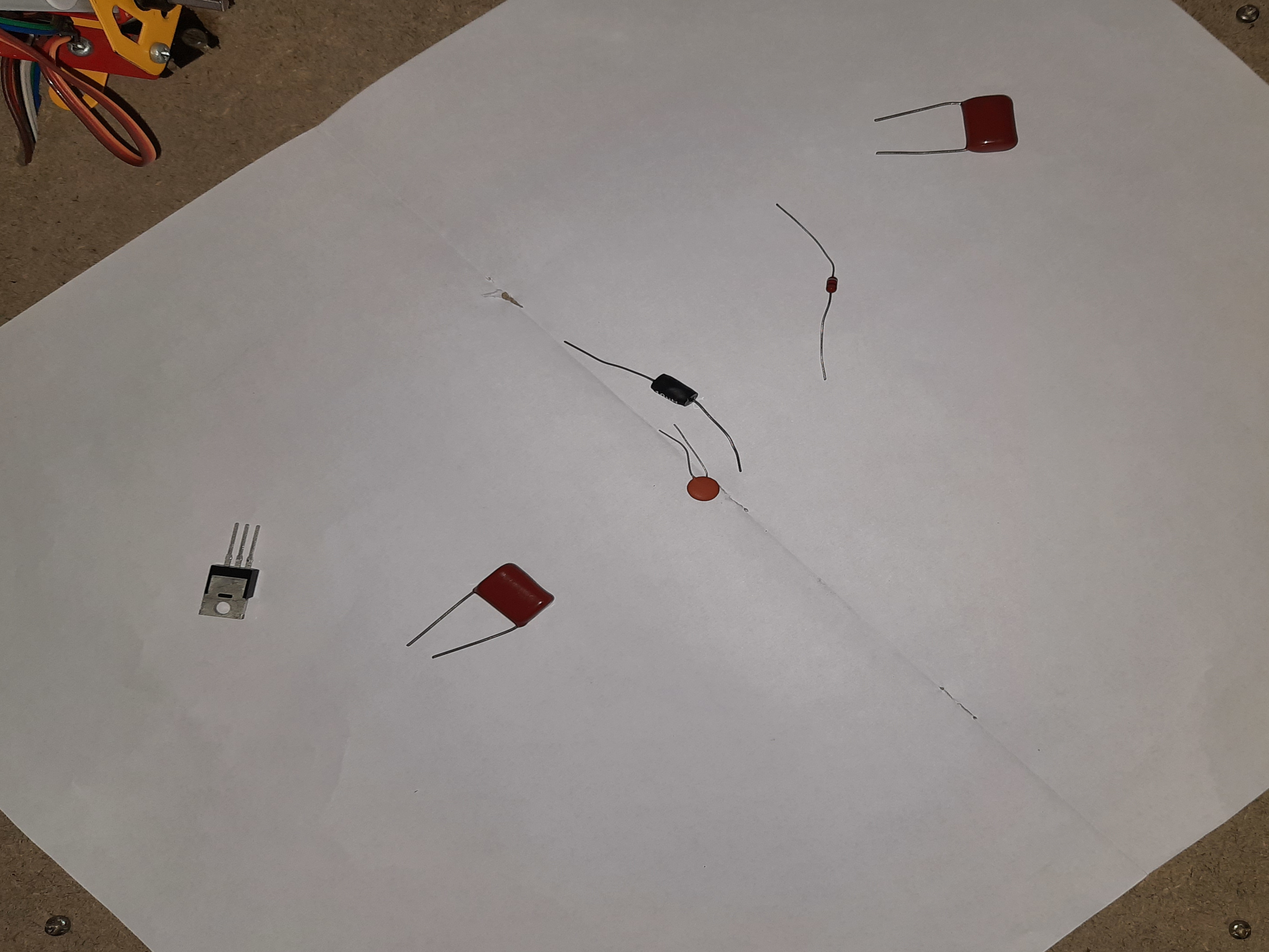
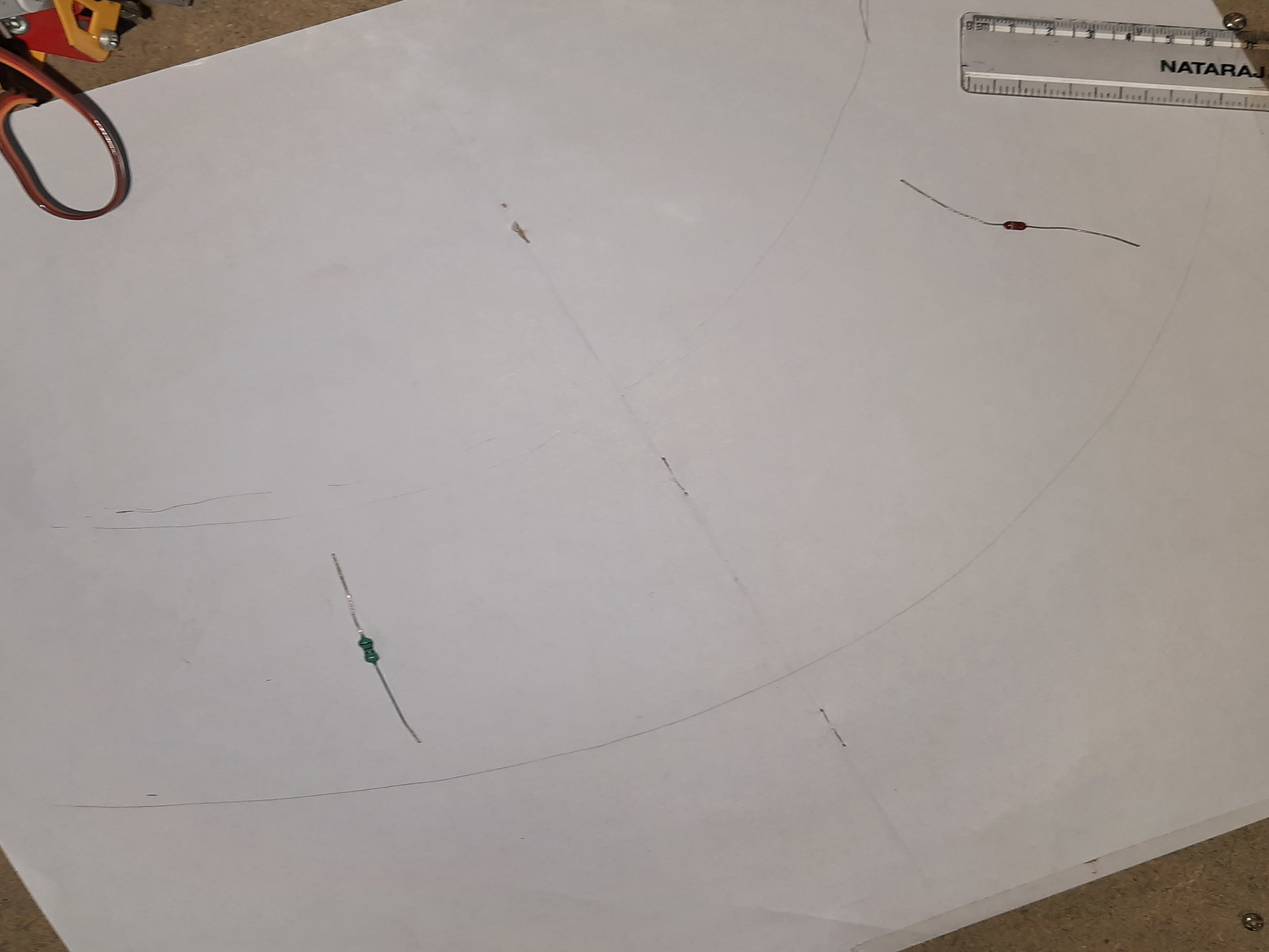
more testing done, work needed

diff --git a/src/img_proc.py b/src/img_proc.py
@@ -24,10 +24,18 @@ import PIL
 #             ]
 #            }
 
-res_dict_test = {'time': 0.03687704300000405, 'image': {'width': 4000, 'height': 3000}, 'predictions': [{'x': 1531.25, 'y': 1917.96875, 'width': 515.625, 'height': 328.125, 'confidence': 0.7944501042366028, 'class': 'CAPACITOR', 'class_id': 0, 'detection_id': 'bdfeaaf4-cd9d-4036-aaec-adf6a05d7399'}, {'x': 2984.375, 'y': 400.390625, 'width': 515.625, 'height': 269.53125, 'confidence': 0.7825040221214294, 'class': 'CAPACITOR', 'class_id': 0, 'detection_id': 'd54a2269-5077-41f1-8fed-c19dd00eb4c0'}, {'x': 708.984375, 'y': 1781.25, 'width': 269.53125, 'height': 343.75, 'confidence': 0.7706283330917358, 'class': 'CAPACITOR', 'class_id': 0, 'detection_id': '45bf7074-1475-4edb-b038-f7583f7662e8'}, {'x': 2986.328125, 'y': 400.390625, 'width': 503.90625, 'height': 253.90625, 'confidence': 0.7632450461387634, 'class': 'LED', 'class_id': 1, 'detection_id': '7faaecd1-271b-4d1f-8451-d0e23f8655f2'}, {'x': 324.21875, 'y': 357.421875, 'width': 492.1875, 'height': 378.90625, 'confidence': 0.7066272497177124, 'class': 'TRANSISTOR', 'class_id': 3, 'detection_id': '886be934-0c14-431d-9551-0d265e49f133'}, {'x': 2011.71875, 'y': 1197.265625, 'width': 437.5, 'height': 214.84375, 'confidence': 0.6960435509681702, 'class': 'CAPACITOR', 'class_id': 0, 'detection_id': '248eeff7-8da7-4755-b01c-5fd11f56430c'}, {'x': 2609.375, 'y': 937.5, 'width': 125.0, 'height': 390.625, 'confidence': 0.6377803087234497, 'class': 'RESISTOR', 'class_id': 2, 'detection_id': '2c72764f-a346-44e3-b872-5a9c84491559'}, {'x': 1601.5625, 'y': 947.265625, 'width': 273.4375, 'height': 175.78125, 'confidence': 0.6368553638458252, 'class': 'RESISTOR', 'class_id': 2, 'detection_id': 'ef0d65ad-42cd-4f48-8d85-7f98b33f760d'}]}
+# res_dict_test = {'time': 0.03687704300000405, 'image': {'width': 4000, 'height': 3000}, 'predictions': [{'x': 1531.25, 'y': 1917.96875, 'width': 515.625, 'height': 328.125, 'confidence': 0.7944501042366028, 'class': 'CAPACITOR', 'class_id': 0, 'detection_id': 'bdfeaaf4-cd9d-4036-aaec-adf6a05d7399'}, {'x': 2984.375, 'y': 400.390625, 'width': 515.625, 'height': 269.53125, 'confidence': 0.7825040221214294, 'class': 'CAPACITOR', 'class_id': 0, 'detection_id': 'd54a2269-5077-41f1-8fed-c19dd00eb4c0'}, {'x': 708.984375, 'y': 1781.25, 'width': 269.53125, 'height': 343.75, 'confidence': 0.7706283330917358, 'class': 'CAPACITOR', 'class_id': 0, 'detection_id': '45bf7074-1475-4edb-b038-f7583f7662e8'}, {'x': 2986.328125, 'y': 400.390625, 'width': 503.90625, 'height': 253.90625, 'confidence': 0.7632450461387634, 'class': 'LED', 'class_id': 1, 'detection_id': '7faaecd1-271b-4d1f-8451-d0e23f8655f2'}, {'x': 324.21875, 'y': 357.421875, 'width': 492.1875, 'height': 378.90625, 'confidence': 0.7066272497177124, 'class': 'TRANSISTOR', 'class_id': 3, 'detection_id': '886be934-0c14-431d-9551-0d265e49f133'}, {'x': 2011.71875, 'y': 1197.265625, 'width': 437.5, 'height': 214.84375, 'confidence': 0.6960435509681702, 'class': 'CAPACITOR', 'class_id': 0, 'detection_id': '248eeff7-8da7-4755-b01c-5fd11f56430c'}, {'x': 2609.375, 'y': 937.5, 'width': 125.0, 'height': 390.625, 'confidence': 0.6377803087234497, 'class': 'RESISTOR', 'class_id': 2, 'detection_id': '2c72764f-a346-44e3-b872-5a9c84491559'}, {'x': 1601.5625, 'y': 947.265625, 'width': 273.4375, 'height': 175.78125, 'confidence': 0.6368553638458252, 'class': 'RESISTOR', 'class_id': 2, 'detection_id': 'ef0d65ad-42cd-4f48-8d85-7f98b33f760d'}]}
 
-def proc_func(test = 0, path = "./assets/original.jpg", user_input = "RESISTOR"):
+# res_dict_test = {'time': 0.0351845919999505, 'image': {'width': 4000, 'height': 3000}, 'predictions': [{'x': 1531.25, 'y': 1917.96875, 'width': 515.625, 'height': 328.125, 'confidence': 0.7944501042366028, 'class': 'CAPACITOR', 'class_id': 0, 'detection_id': '3781528d-e00a-4a8c-8bf9-c30fe38630a1'}, {'x': 2984.375, 'y': 400.390625, 'width': 515.625, 'height': 269.53125, 'confidence': 0.7825040221214294, 'class': 'CAPACITOR', 'class_id': 0, 'detection_id': 'a0c0b28d-db9f-4ae0-966e-60a775a4c2ed'}, {'x': 708.984375, 'y': 1781.25, 'width': 269.53125, 'height': 343.75, 'confidence': 0.7706283330917358, 'class': 'CAPACITOR', 'class_id': 0, 'detection_id': '539f5b51-6398-41b7-aac1-acaf4f0d21e7'}, {'x': 2986.328125, 'y': 400.390625, 'width': 503.90625, 'height': 253.90625, 'confidence': 0.7632450461387634, 'class': 'LED', 'class_id': 1, 'detection_id': '9044ed4d-3385-44d6-a7ac-62f1915dc069'}, {'x': 324.21875, 'y': 357.421875, 'width': 492.1875, 'height': 378.90625, 'confidence': 0.7066272497177124, 'class': 'TRANSISTOR', 'class_id': 3, 'detection_id': '3ef9f348-4302-4fe1-a24b-b7e11e0d4fd5'}, {'x': 2011.71875, 'y': 1197.265625, 'width': 437.5, 'height': 214.84375, 'confidence': 0.6960435509681702, 'class': 'CAPACITOR', 'class_id': 0, 'detection_id': '1d9c01c7-90f1-40f8-b0f4-29133a5e2a96'}, {'x': 2609.375, 'y': 937.5, 'width': 125.0, 'height': 390.625, 'confidence': 0.6377803087234497, 'class': 'RESISTOR', 'class_id': 2, 'detection_id': '51197468-ec53-4504-92e3-fac03bef51ec'}, {'x': 1601.5625, 'y': 947.265625, 'width': 273.4375, 'height': 175.78125, 'confidence': 0.6368553638458252, 'class': 'RESISTOR', 'class_id': 2, 'detection_id': 'c2260359-bfe8-4b62-9c17-850909a326d6'}]}
+
+# res_dict_test = {'time': 0.05463164399998277, 'image': {'width': 4000, 'height': 3000}, 'predictions': [{'x': 2216.796875, 'y': 2794.921875, 'width': 300.78125, 'height': 222.65625, 'confidence': 0.7194410562515259, 'class': 'RESISTOR', 'class_id': 2, 'detection_id': '18d08eff-3c39-41a8-ab23-54b10579b3b1'}, {'x': 1607.421875, 'y': 2203.125, 'width': 472.65625, 'height': 156.25, 'confidence': 0.6967458724975586, 'class': 'CAPACITOR', 'class_id': 0, 'detection_id': '04f6a592-6659-4bb1-bc04-f3470c41c32d'}, {'x': 3539.0625, 'y': 166.015625, 'width': 921.875, 'height': 308.59375, 'confidence': 0.6932172775268555, 'class': 'CAPACITOR', 'class_id': 0, 'detection_id': '1f9aeca1-aee0-40db-912a-e89d75aaf1f1'}, {'x': 1597.65625, 'y': 2199.21875, 'width': 445.3125, 'height': 148.4375, 'confidence': 0.6768060922622681, 'class': 'LED', 'class_id': 1, 'detection_id': '1bb35cc7-2512-4707-9aa2-30aba525d887'}, {'x': 2875.0, 'y': 2273.4375, 'width': 257.8125, 'height': 218.75, 'confidence': 0.6692739725112915, 'class': 'LED', 'class_id': 1, 'detection_id': '844988ec-e6ba-4761-b2ef-bd0cdcec5b2d'}, {'x': 3718.75, 'y': 632.8125, 'width': 523.4375, 'height': 273.4375, 'confidence': 0.6645803451538086, 'class': 'LED', 'class_id': 1, 'detection_id': '75e58f71-c4b8-4a16-8bd7-5b65b1040b8f'}, {'x': 3101.5625, 'y': 1791.015625, 'width': 250.0, 'height': 207.03125, 'confidence': 0.6606467962265015, 'class': 'RESISTOR', 'class_id': 2, 'detection_id': 'b3fa1808-f0c9-42af-a777-31602bcfb03f'}, {'x': 3197.265625, 'y': 1240.234375, 'width': 496.09375, 'height': 230.46875, 'confidence': 0.6580352783203125, 'class': 'LED', 'class_id': 1, 'detection_id': 'e4c6b71e-9557-4096-ad5d-dba933ed4950'}, {'x': 1947.265625, 'y': 1302.734375, 'width': 246.09375, 'height': 199.21875, 'confidence': 0.6487857103347778, 'class': 'RESISTOR', 'class_id': 2, 'detection_id': 'baa3fdf4-8a6c-48ce-8acf-aaebccfc6dc4'}, {'x': 2322.265625, 'y': 1480.46875, 'width': 402.34375, 'height': 234.375, 'confidence': 0.6156385540962219, 'class': 'CAPACITOR', 'class_id': 0, 'detection_id': '3e2c2bf0-bf77-4f21-8ab1-4018f61e4030'}, {'x': 875.0, 'y': 2113.28125, 'width': 140.625, 'height': 273.4375, 'confidence': 0.6112461090087891, 'class': 'RESISTOR', 'class_id': 2, 'detection_id': '508391df-fbb6-4252-8367-9341c57480c1'}, {'x': 359.375, 'y': 136.71875, 'width': 562.5, 'height': 273.4375, 'confidence': 0.603914737701416, 'class': 'CAPACITOR', 'class_id': 0, 'detection_id': 'b1df0a05-5cfe-4446-9784-75c469a44bee'}, {'x': 2322.265625, 'y': 1476.5625, 'width': 394.53125, 'height': 250.0, 'confidence': 0.49223533272743225, 'class': 'LED', 'class_id': 1, 'detection_id': '750b34e1-e7ac-4b1e-9e08-3e6e360fc0c2'}, {'x': 1220.703125, 'y': 2751.953125, 'width': 519.53125, 'height': 214.84375, 'confidence': 0.4530971348285675, 'class': 'LED', 'class_id': 1, 'detection_id': 'c8629b81-54b6-4bee-866d-37b4b4aeca2c'}]}
+
+res_dict_test = {'time': 0.035279596000009406, 'image': {'width': 4000, 'height': 3000}, 'predictions': [{'x': 236.328125, 'y': 417.96875, 'width': 464.84375, 'height': 554.6875, 'confidence': 0.5773434638977051, 'class': 'CAPACITOR', 'class_id': 0, 'detection_id': 'b2ea39f9-4980-42d2-b31a-43009d1d6b05'}, {'x': 3199.21875, 'y': 697.265625, 'width': 421.875, 'height': 105.46875, 'confidence': 0.5764647126197815, 'class': 'RESISTOR', 'class_id': 2, 'detection_id': '5d65004a-51a7-4920-828f-64d6d04873d3'}, {'x': 1160.15625, 'y': 2041.015625, 'width': 179.6875, 'height': 355.46875, 'confidence': 0.5531340837478638, 'class': 'RESISTOR', 'class_id': 2, 'detection_id': '248bc746-acc1-4576-819a-0d817fab8b22'}, {'x': 1630.859375, 'y': 759.765625, 'width': 207.03125, 'height': 246.09375, 'confidence': 0.4855283200740814, 'class': 'RESISTOR', 'class_id': 2, 'detection_id': 'e0515c66-e012-478b-9677-41a5f5b8c994'}]}
+
+def proc_func(test = 0, path = "../assets/original.jpg", user_input = "RESISTOR"):
     
+    pixels_per_cm = 127
+
     if test:
         res_dict = res_dict_test
     else:
@@ -40,10 +48,14 @@ def proc_func(test = 0, path = "./assets/original.jpg", user_input = "RESISTOR")
 
     for prediction_list in res_dict['predictions']:
         if prediction_list['class'] == user_input:
-            print(prediction_list['x'] + (prediction_list['width']/2), prediction_list['y'] + (prediction_list['height']/2))
+            # print(prediction_list['x'] + (prediction_list['width']/2), prediction_list['y'] + (prediction_list['height']/2))
             x = prediction_list['x'] + (prediction_list['width']/2)
             y = prediction_list['y'] + (prediction_list['height']/2)
-            return x,y
+            break        
+    
+    x = pixels_per_cm * x/res_dict["image"]["width"]
+    y = pixels_per_cm * y/res_dict["image"]["height"]
+    return x,y
 
 if __name__ == "__main__":
-    proc_func(1)
+    print(proc_func(1))

diff --git a/src/main.py b/src/main.py
@@ -6,13 +6,15 @@ import arduino_serial
 def main():
     
     component_2D_coordinates = img_proc.proc_func(1, user_input="RESISTOR")
+    # x,z = component_2D_coordinates
     joint_angles_in_deg = arm_kinematics.inverse_kinematics(component_2D_coordinates)
-    print(joint_angles_in_deg)
+    print("joint angles:", joint_angles_in_deg)
     base_angle = joint_angles_in_deg[0]
     btm_angle = mapping.map_btm(joint_angles_in_deg[1])
     mid_angle = mapping.map_mid(joint_angles_in_deg[2])
     top_angle = mapping.map_top(joint_angles_in_deg[3])
-    arduino_serial.pos(base_angle, btm_angle, mid_angle, top_angle)
+    print("arduino angles",int(base_angle), int(btm_angle), int(mid_angle), int(top_angle))
+    arduino_serial.pos(int(base_angle), int(btm_angle), int(mid_angle), int(top_angle))
     arduino_serial.pick()
     arduino_serial.drop()
     return None

diff --git a/src/arm_kinematics.py b/src/arm_kinematics.py
@@ -26,12 +26,14 @@ def inverse_kinematics(xy_tuple):
 
     # x, y = img_proc.proc_func(1)
     x, y = xy_tuple
-    z = 1.5
-
+    z = 1.2
+    joint_angles = [0, 0, 0, 0]
     # req_position_arr = [x, y, z]
     req_pose_arr = [[0.8829, 0.4695, 0, x], [0, 0, -1, y], [-0.4695, 0.8829, 0, z], [0,0,0,1]]
+    # req_pose_arr = [[1,0,0, x], [0, 1, 0, y], [0,0,1, z], [0,0,0,1]]
     req_pose_se3 = SE3(req_pose_arr)
-
+    # print(x,y,z)
+    # while joint_angles[1]<30:
     joint_angles = arm.ikine_LM(req_pose_se3).q
 
     # print(joint_angles[0]*(180/np.pi), joint_angles[1]*(180/np.pi), joint_angles[2]*(180/np.pi), joint_angles[3]*(180/np.pi))

diff --git a/src/arduino_serial.py b/src/arduino_serial.py
@@ -30,16 +30,16 @@ def pos(bas, btm, mid, top):
     """Move arm to positions given in the arguments"""
     s.write(("bas, "+ str(bas)).encode())
     print("Moved base")
-    sleep(5)
+    sleep(2)
     s.write(("btm, "+ str(btm)).encode())
     print("Moved bottom")
-    sleep(5)
+    sleep(2)
     s.write(("mid, "+ str(mid)).encode())
     print("Moved mid")
-    sleep(5)
+    sleep(2)
     s.write(("top, "+ str(top)).encode())
     print("Moved top")
-    sleep(5)
+    sleep(2)
 
 def drop():
     """Drop the picked item"""
